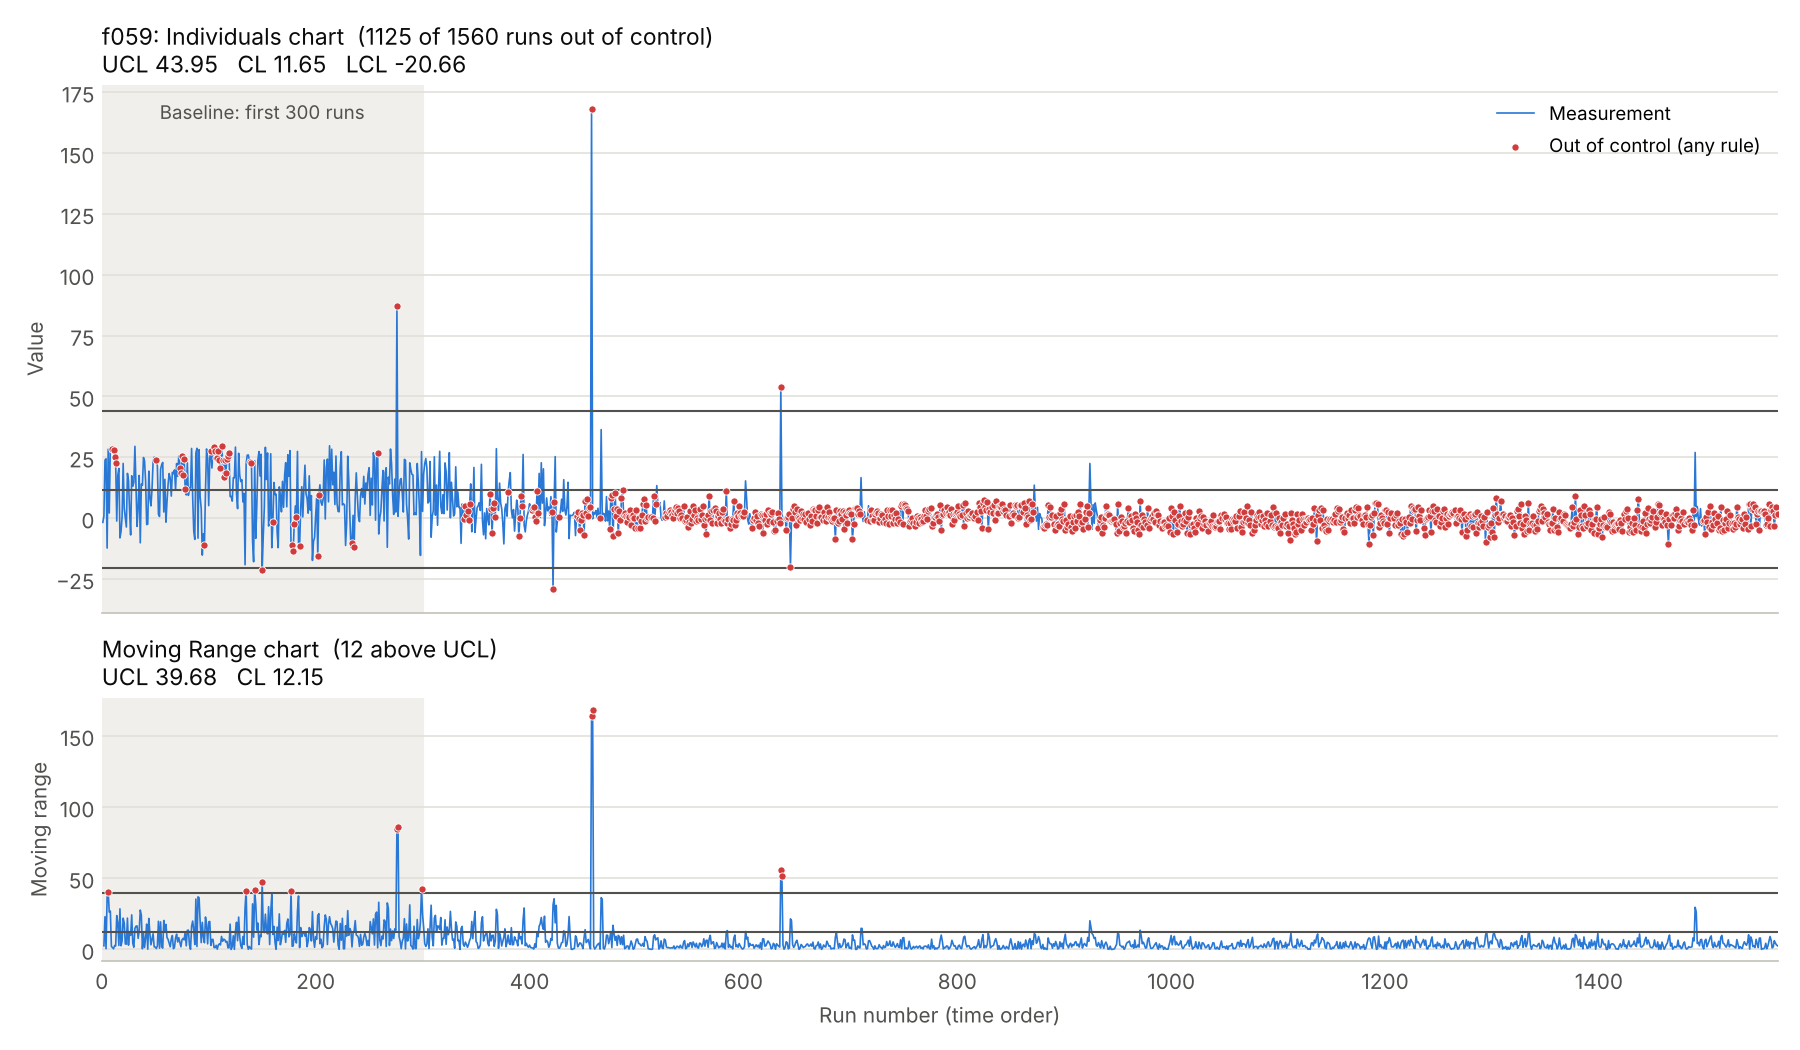
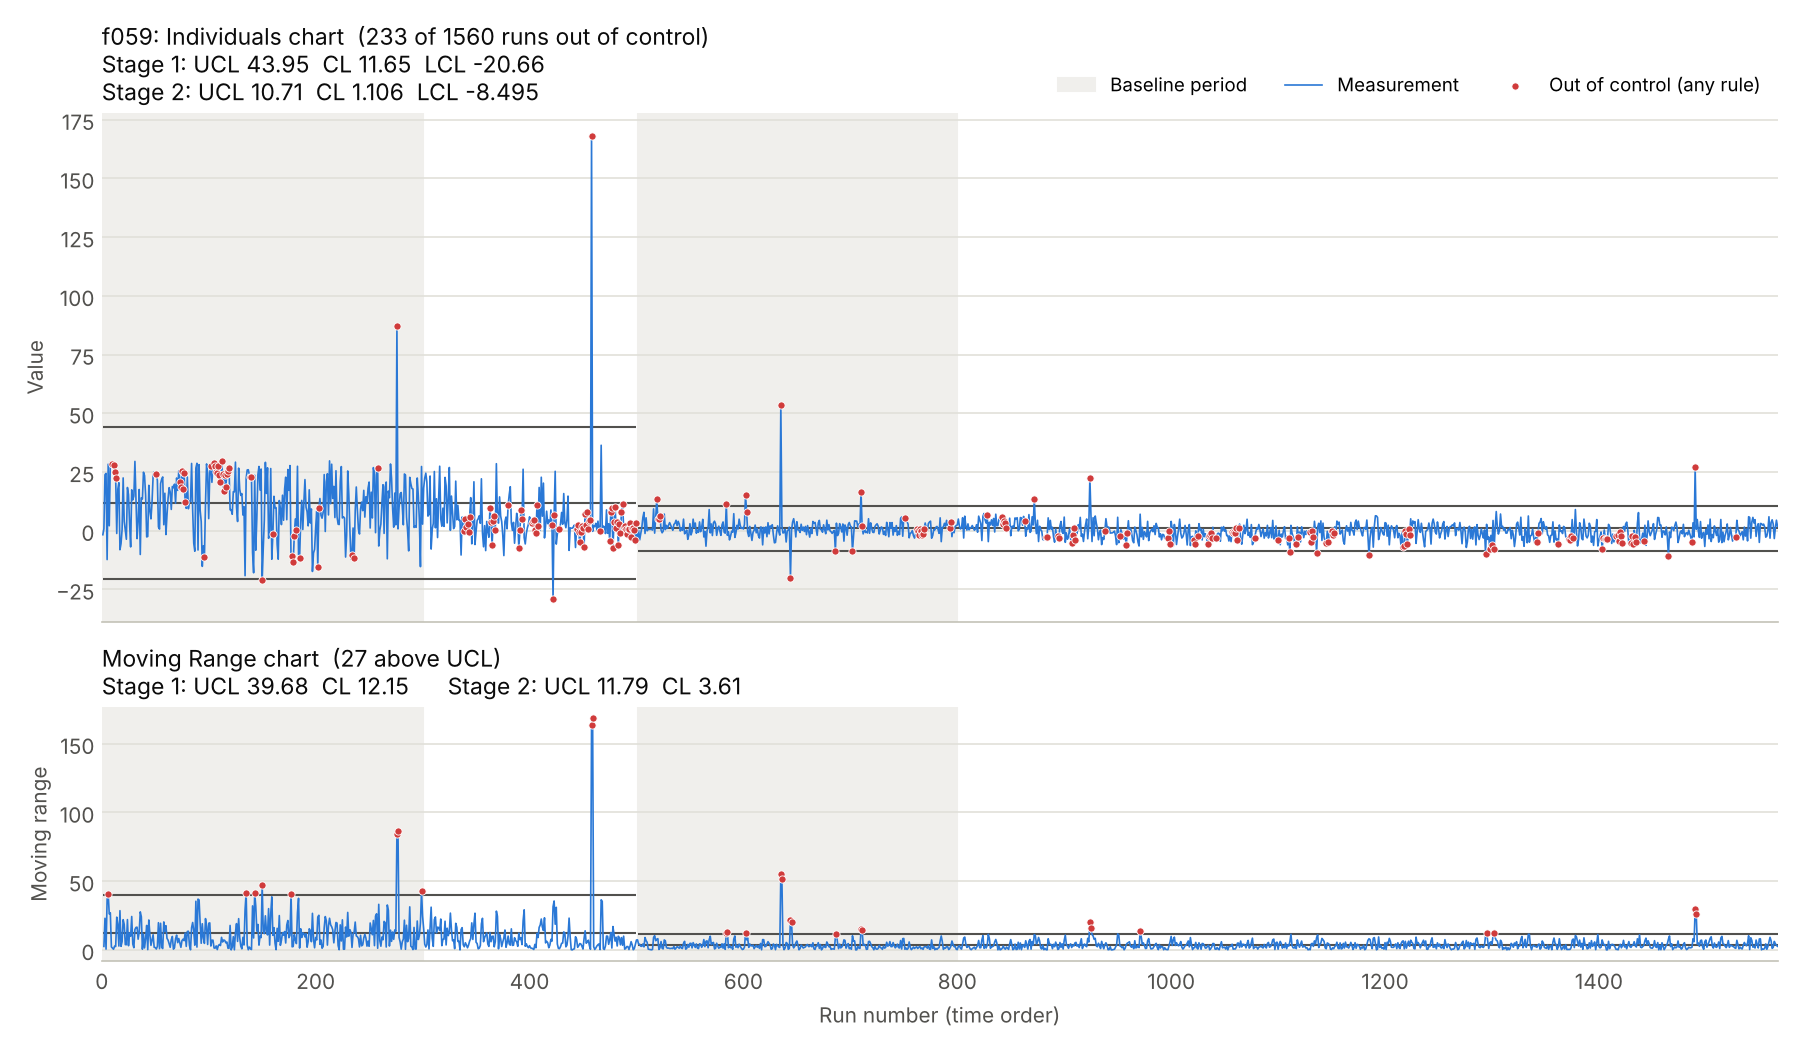
Use two stages for the control charts
The first charts showed a sustained level shift between about run 300
and run 480. Split the runs at run 501 (chosen by eye, labelled as an
assumption) and give each stage its own limits from its first 300
runs. Rules are checked inside each stage.

Claude-Session: https://claude.ai/code/session_01W3cA8TiWL7tBodttBRmRon

diff --git a/src/control_charts.py b/src/control_charts.py
@@ -2,16 +2,19 @@
 
 Run:  python src/control_charts.py   (after src/feature_ranking.py)
 
+The charts use two stages (see STAGE_2_START in config.py). Each stage has
+its own control limits, computed from the first runs of that stage.
+
 Outputs:
   reports/figures/imr_<feature>.png   one chart per feature
-  reports/control_limits.csv          limits and out-of-control counts
+  reports/control_limits.csv          limits and out-of-control counts,
+                                      one row per feature and stage
 """
 
 import matplotlib.pyplot as plt
 import pandas as pd
 
 from config import (
-    BASELINE_RUNS,
     CLEAN_FILE,
     CONTROL_LIMITS_FILE,
     CORRELATION_LIMIT,
@@ -20,13 +23,14 @@ from config import (
     TOP_N_CHARTS,
 )
 from spc_rules import check_rules, imr_limits, moving_range, summarise_rules
+from stages import add_stage_columns
 
 # Chart colours (checked for colour-blind separation).
-COLOR_DATA = "#2a78d6"     # blue: measurements
-COLOR_OOC = "#d03b3b"      # red: out-of-control points
-COLOR_LIMIT = "#52514e"    # dark grey: centre line and control limits
+COLOR_DATA = "#2a78d6"      # blue: measurements
+COLOR_OOC = "#d03b3b"       # red: out-of-control points
+COLOR_LIMIT = "#52514e"     # dark grey: centre line and control limits
 COLOR_GRID = "#e1e0d9"
-COLOR_BASELINE = "#f0efec" # light grey band behind the baseline period
+COLOR_BASELINE = "#f0efec"  # light grey band behind each baseline period
 COLOR_TEXT = "#52514e"
 
 
@@ -52,12 +56,11 @@ def select_chart_features(ranking, data, n=TOP_N_CHARTS, limit=CORRELATION_LIMIT
     return chosen
 
 
-def spc_for_feature(data, feature, baseline_runs=BASELINE_RUNS):
-    """Compute control limits and rule violations for one feature.
+def spc_for_feature(data, feature):
+    """Compute staged control limits and rule violations for one feature.
 
-    Returns (points, limits):
-      points  one row per run that has a reading, in time order
-      limits  dictionary from imr_limits()
+    Returns one row per run that has a reading, in time order. Each row
+    carries the limits of its own stage, so a chart can draw them directly.
     """
     # Runs with no reading for this feature are left out. We do not fill
     # them in, because an invented value would look like a measurement.
@@ -65,43 +68,62 @@ def spc_for_feature(data, feature, baseline_runs=BASELINE_RUNS):
     points = points.rename(columns={feature: "value"}).reset_index(drop=True)
     points.insert(3, "feature", feature)
 
-    # Limits come from the baseline runs only, then apply to every run.
-    points["in_baseline"] = points["run_id"] <= baseline_runs
-    limits = imr_limits(points.loc[points["in_baseline"], "value"])
-
+    points = add_stage_columns(points)
     points["moving_range"] = moving_range(points["value"])
-    points["mr_ooc"] = points["moving_range"] > limits["mr_ucl"]
 
-    rules = check_rules(points["value"], limits["center"], limits["sigma"])
-    points = pd.concat([points, rules, summarise_rules(rules)], axis=1)
-    return points, limits
+    stage_tables = []
+    for _, stage_points in points.groupby("stage"):
+        stage_points = stage_points.reset_index(drop=True)
+
+        # Limits come from this stage's baseline runs only.
+        baseline = stage_points.loc[stage_points["in_baseline"], "value"]
+        limits = imr_limits(baseline)
+
+        # Write the limits on every row of the stage.
+        for name, value in limits.items():
+            stage_points[name] = value
+
+        stage_points["mr_ooc"] = stage_points["moving_range"] > limits["mr_ucl"]
+
+        # The rules run inside the stage, so a pattern such as "8 in a row"
+        # never mixes points judged against different centre lines.
+        rules = check_rules(stage_points["value"], limits["center"], limits["sigma"])
+        stage_tables.append(
+            pd.concat([stage_points, rules, summarise_rules(rules)], axis=1)
+        )
+
+    return pd.concat(stage_tables, ignore_index=True)
 
 
-def summarise_feature(points, limits, feature):
-    """One row of numbers describing the chart for a feature."""
-    monitored = points[~points["in_baseline"]]
-    ooc = points[points["ooc_flag"]]
-    in_control = points[~points["ooc_flag"]]
+def summarise_stage(stage_points):
+    """One row of numbers describing one feature in one stage."""
+    first = stage_points.iloc[0]
+    after_baseline = stage_points[~stage_points["in_baseline"]]
+    ooc = stage_points[stage_points["ooc_flag"]]
+    in_control = stage_points[~stage_points["ooc_flag"]]
 
     return {
-        "feature": feature,
-        "center": limits["center"],
-        "sigma": limits["sigma"],
-        "ucl": limits["ucl"],
-        "lcl": limits["lcl"],
-        "mr_center": limits["mr_center"],
-        "mr_ucl": limits["mr_ucl"],
-        "n_points": len(points),
-        "n_baseline": int(points["in_baseline"].sum()),
+        "feature": first["feature"],
+        "stage": first["stage"],
+        "first_run": stage_points["run_id"].min(),
+        "last_run": stage_points["run_id"].max(),
+        "center": first["center"],
+        "sigma": first["sigma"],
+        "ucl": first["ucl"],
+        "lcl": first["lcl"],
+        "mr_center": first["mr_center"],
+        "mr_ucl": first["mr_ucl"],
+        "n_points": len(stage_points),
+        "n_baseline": int(stage_points["in_baseline"].sum()),
         "n_ooc": len(ooc),
-        "ooc_rate": len(ooc) / len(points),
-        "ooc_rate_baseline": points.loc[points["in_baseline"], "ooc_flag"].mean(),
-        "ooc_rate_monitoring": monitored["ooc_flag"].mean(),
-        "n_rule_1": int(points["rule_1"].sum()),
-        "n_rule_2": int(points["rule_2"].sum()),
-        "n_rule_3": int(points["rule_3"].sum()),
-        "n_rule_4": int(points["rule_4"].sum()),
-        "n_mr_ooc": int(points["mr_ooc"].sum()),
+        "ooc_rate": len(ooc) / len(stage_points),
+        "ooc_rate_baseline": stage_points.loc[stage_points["in_baseline"], "ooc_flag"].mean(),
+        "ooc_rate_after_baseline": after_baseline["ooc_flag"].mean(),
+        "n_rule_1": int(stage_points["rule_1"].sum()),
+        "n_rule_2": int(stage_points["rule_2"].sum()),
+        "n_rule_3": int(stage_points["rule_3"].sum()),
+        "n_rule_4": int(stage_points["rule_4"].sum()),
+        "n_mr_ooc": int(stage_points["mr_ooc"].sum()),
         # Do flagged runs fail more often than unflagged runs?
         "fail_rate_ooc": (ooc["pass_fail"] == "Fail").mean(),
         "fail_rate_in_control": (in_control["pass_fail"] == "Fail").mean(),
@@ -118,16 +140,46 @@ def style_axis(ax):
     ax.tick_params(colors=COLOR_TEXT, length=0)
 
 
-def plot_imr(points, limits, feature, path, baseline_runs=BASELINE_RUNS):
+def draw_stage_lines(ax, points, columns):
+    """Shade each stage's baseline and draw its limit lines."""
+    for stage, stage_points in points.groupby("stage"):
+        first_run = stage_points["run_id"].min()
+        last_run = stage_points["run_id"].max()
+        baseline_end = stage_points.loc[stage_points["in_baseline"], "run_id"].max()
+
+        # Only the first band gets a legend entry, so it is listed once.
+        label = "Baseline period" if stage == 1 else None
+        ax.axvspan(first_run, baseline_end, color=COLOR_BASELINE, zorder=0, label=label)
+        for column in columns:
+            ax.hlines(
+                stage_points[column].iloc[0], first_run, last_run,
+                color=COLOR_LIMIT, linewidth=1,
+            )
+
+
+def limits_text(points, columns, separator):
+    """Text such as 'Stage 1: UCL 43.95  CL 11.65  LCL -20.66' per stage."""
+    labels = {"ucl": "UCL", "center": "CL", "lcl": "LCL",
+              "mr_ucl": "UCL", "mr_center": "CL"}
+    parts = []
+    for stage, stage_points in points.groupby("stage"):
+        values = "  ".join(
+            f"{labels[column]} {stage_points[column].iloc[0]:.4g}" for column in columns
+        )
+        parts.append(f"Stage {stage}: {values}")
+    return separator.join(parts)
+
+
+def plot_imr(points, feature, path):
     """Draw the Individuals chart (top) and Moving Range chart (bottom)."""
     fig, (ax_i, ax_mr) = plt.subplots(
         2, 1, figsize=(12, 7), sharex=True, height_ratios=[2, 1]
     )
     x = points["run_id"]
-    last_x = x.max()
 
     # --- Individuals chart ---
-    ax_i.axvspan(0, baseline_runs, color=COLOR_BASELINE, zorder=0)
+    i_columns = ["ucl", "center", "lcl"]
+    draw_stage_lines(ax_i, points, i_columns)
     ax_i.plot(x, points["value"], color=COLOR_DATA, linewidth=0.8, label="Measurement")
 
     ooc = points[points["ooc_flag"]]
@@ -136,29 +188,22 @@ def plot_imr(points, limits, feature, path, baseline_runs=BASELINE_RUNS):
         linewidth=0.4, zorder=3, label="Out of control (any rule)",
     )
 
-    # The three horizontal lines: upper limit, centre line, lower limit.
-    # Their values go in the title, where they cannot overlap each other.
-    for key in ["ucl", "center", "lcl"]:
-        ax_i.axhline(limits[key], color=COLOR_LIMIT, linewidth=1)
-
     ax_i.set_title(
         f"{feature}: Individuals chart  "
         f"({len(ooc)} of {len(points)} runs out of control)\n"
-        f"UCL {limits['ucl']:.4g}   CL {limits['center']:.4g}   "
-        f"LCL {limits['lcl']:.4g}",
+        f"{limits_text(points, i_columns, separator='\n')}",
         loc="left", fontsize=11, color="#0b0b0b",
     )
     ax_i.set_ylabel("Value", color=COLOR_TEXT)
-    ax_i.legend(loc="upper right", frameon=False, fontsize=9)
-    ax_i.text(
-        baseline_runs / 2, 0.97, f"Baseline: first {baseline_runs} runs",
-        transform=ax_i.get_xaxis_transform(), ha="center", va="top",
-        fontsize=9, color=COLOR_TEXT,
+    # Legend sits above the plot, on the right, so it never covers data.
+    ax_i.legend(
+        loc="lower right", bbox_to_anchor=(1, 1), ncol=3, frameon=False, fontsize=9
     )
     style_axis(ax_i)
 
     # --- Moving Range chart ---
-    ax_mr.axvspan(0, baseline_runs, color=COLOR_BASELINE, zorder=0)
+    mr_columns = ["mr_ucl", "mr_center"]
+    draw_stage_lines(ax_mr, points, mr_columns)
     ax_mr.plot(x, points["moving_range"], color=COLOR_DATA, linewidth=0.8)
 
     mr_ooc = points[points["mr_ooc"]]
@@ -167,17 +212,14 @@ def plot_imr(points, limits, feature, path, baseline_runs=BASELINE_RUNS):
         edgecolor="white", linewidth=0.4, zorder=3,
     )
 
-    for key in ["mr_ucl", "mr_center"]:
-        ax_mr.axhline(limits[key], color=COLOR_LIMIT, linewidth=1)
-
     ax_mr.set_title(
         f"Moving Range chart  ({len(mr_ooc)} above UCL)\n"
-        f"UCL {limits['mr_ucl']:.4g}   CL {limits['mr_center']:.4g}",
+        f"{limits_text(points, mr_columns, separator='      ')}",
         loc="left", fontsize=11, color="#0b0b0b",
     )
     ax_mr.set_ylabel("Moving range", color=COLOR_TEXT)
     ax_mr.set_xlabel("Run number (time order)", color=COLOR_TEXT)
-    ax_mr.set_xlim(0, last_x)
+    ax_mr.set_xlim(0, x.max())
     style_axis(ax_mr)
 
     fig.tight_layout()
@@ -196,19 +238,20 @@ def main():
     FIGURES_DIR.mkdir(parents=True, exist_ok=True)
     summaries = []
     for feature in features:
-        points, limits = spc_for_feature(data, feature)
-        plot_imr(points, limits, feature, FIGURES_DIR / f"imr_{feature}.png")
-        summaries.append(summarise_feature(points, limits, feature))
+        points = spc_for_feature(data, feature)
+        plot_imr(points, feature, FIGURES_DIR / f"imr_{feature}.png")
+        for _, stage_points in points.groupby("stage"):
+            summaries.append(summarise_stage(stage_points))
 
     summary = pd.DataFrame(summaries)
     summary.to_csv(CONTROL_LIMITS_FILE, index=False)
 
-    print(f"\nBaseline: first {BASELINE_RUNS} runs")
-    columns = ["feature", "center", "sigma", "lcl", "ucl", "n_ooc", "ooc_rate",
-               "ooc_rate_baseline", "ooc_rate_monitoring"]
+    print("\nLimits and out-of-control (OOC) rates per stage:")
+    columns = ["feature", "stage", "first_run", "last_run", "center", "sigma",
+               "lcl", "ucl", "n_ooc", "ooc_rate_baseline", "ooc_rate_after_baseline"]
     print(summary[columns].round(4).to_string(index=False))
     print("\nViolations by rule, and fail rate of flagged vs unflagged runs:")
-    columns = ["feature", "n_rule_1", "n_rule_2", "n_rule_3", "n_rule_4",
+    columns = ["feature", "stage", "n_rule_1", "n_rule_2", "n_rule_3", "n_rule_4",
                "n_mr_ooc", "fail_rate_ooc", "fail_rate_in_control"]
     print(summary[columns].round(4).to_string(index=False))
     print(f"\nSaved charts to {FIGURES_DIR}")

diff --git a/tests/test_stages.py b/tests/test_stages.py
@@ -1,0 +1,52 @@
+"""Tests for the stage split, using eight runs counted by hand."""
+
+import pandas as pd
+
+from control_charts import spc_for_feature
+from stages import add_stage_columns
+
+
+def test_stage_and_baseline_columns():
+    table = pd.DataFrame({"run_id": [1, 2, 3, 4, 5, 6, 7, 8]})
+
+    # Stage 2 starts at run 5; each stage's baseline is its first 2 runs.
+    result = add_stage_columns(table, stage_2_start=5, baseline_runs=2)
+
+    assert result["stage"].tolist() == [1, 1, 1, 1, 2, 2, 2, 2]
+    assert result["in_baseline"].tolist() == [
+        True, True, False, False,   # stage 1: runs 1 and 2 are baseline
+        True, True, False, False,   # stage 2: runs 5 and 6 are baseline
+    ]
+
+
+def test_original_table_is_not_changed():
+    table = pd.DataFrame({"run_id": [1, 2, 3]})
+    add_stage_columns(table, stage_2_start=2, baseline_runs=1)
+    assert list(table.columns) == ["run_id"]
+
+
+def test_spc_for_feature_leaves_out_missing_readings():
+    # 600 runs, so both real stages (split at run 501) contain data.
+    n = 600
+    data = pd.DataFrame(
+        {
+            "run_id": range(1, n + 1),
+            "timestamp": pd.date_range("2008-01-01", periods=n, freq="h"),
+            "pass_fail": "Pass",
+            # Alternating 10, 12 gives a known mean (11) and moving range (2).
+            "x": [10.0, 12.0] * (n // 2),
+        }
+    )
+    data.loc[5, "x"] = None  # run 6 has no reading
+
+    points = spc_for_feature(data, "x")
+
+    assert len(points) == n - 1
+    assert 6 not in points["run_id"].tolist()
+    assert set(points["stage"]) == {1, 2}
+    # Stage 2 baseline is clean: mean 11, sigma = 2 / 1.128.
+    stage_2 = points[points["stage"] == 2]
+    assert stage_2["center"].iloc[0] == 11.0
+    assert round(stage_2["sigma"].iloc[0], 4) == round(2 / 1.128, 4)
+    # Alternating values never break a rule.
+    assert not stage_2["ooc_flag"].any()

diff --git a/src/config.py b/src/config.py
@@ -49,9 +49,17 @@ TOP_N_CHARTS = 5     # features that get control charts
 FEATURE_RANKING_FILE = REPORTS_DIR / "feature_ranking.csv"
 
 # --- Control charts (step 4) ---------------------------------------------
-# Control limits are computed from the first runs in time order, then
-# frozen and applied to every run. 300 runs is about the first month.
-# Known weakness: this period has the highest fail rate in the dataset.
+# The process changed level between about run 300 and run 480 (seen on the
+# first control charts), and the fail rate dropped at the same time. One set
+# of limits cannot describe both periods, so the charts use two stages:
+#   Stage 1 = runs 1 to STAGE_2_START - 1
+#   Stage 2 = runs STAGE_2_START to the end
+# ASSUMPTION: the split at run 501 was chosen by eye, with hindsight, as the
+# point where the change had settled. It is not a documented process event.
+STAGE_2_START = 501
+
+# Each stage gets its own control limits, computed from the first
+# BASELINE_RUNS runs of that stage and then frozen for the rest of the stage.
 BASELINE_RUNS = 300
 
 # When picking features to chart, skip a feature whose rank correlation
@@ -60,3 +68,4 @@ CORRELATION_LIMIT = 0.9
 
 FIGURES_DIR = REPORTS_DIR / "figures"
 CONTROL_LIMITS_FILE = REPORTS_DIR / "control_limits.csv"
+STAGE_RANKING_FILE = REPORTS_DIR / "ranking_by_stage.csv"

diff --git a/src/stages.py b/src/stages.py
@@ -1,0 +1,26 @@
+"""Split the runs into two stages (before and after the process change).
+
+Used by the control charts and by the per-stage feature comparison, so both
+use exactly the same definition.
+"""
+
+import numpy as np
+
+from config import BASELINE_RUNS, STAGE_2_START
+
+
+def add_stage_columns(table, stage_2_start=STAGE_2_START, baseline_runs=BASELINE_RUNS):
+    """Return a copy of the table with 'stage' and 'in_baseline' columns.
+
+    stage        1 for runs before stage_2_start, 2 from stage_2_start on
+    in_baseline  True for the first baseline_runs runs of each stage
+    """
+    table = table.copy()
+    run_id = table["run_id"]
+
+    table["stage"] = np.where(run_id < stage_2_start, 1, 2)
+
+    # First run number of the stage each row belongs to: 1 or stage_2_start.
+    stage_first_run = np.where(table["stage"] == 1, 1, stage_2_start)
+    table["in_baseline"] = run_id < stage_first_run + baseline_runs
+    return table
